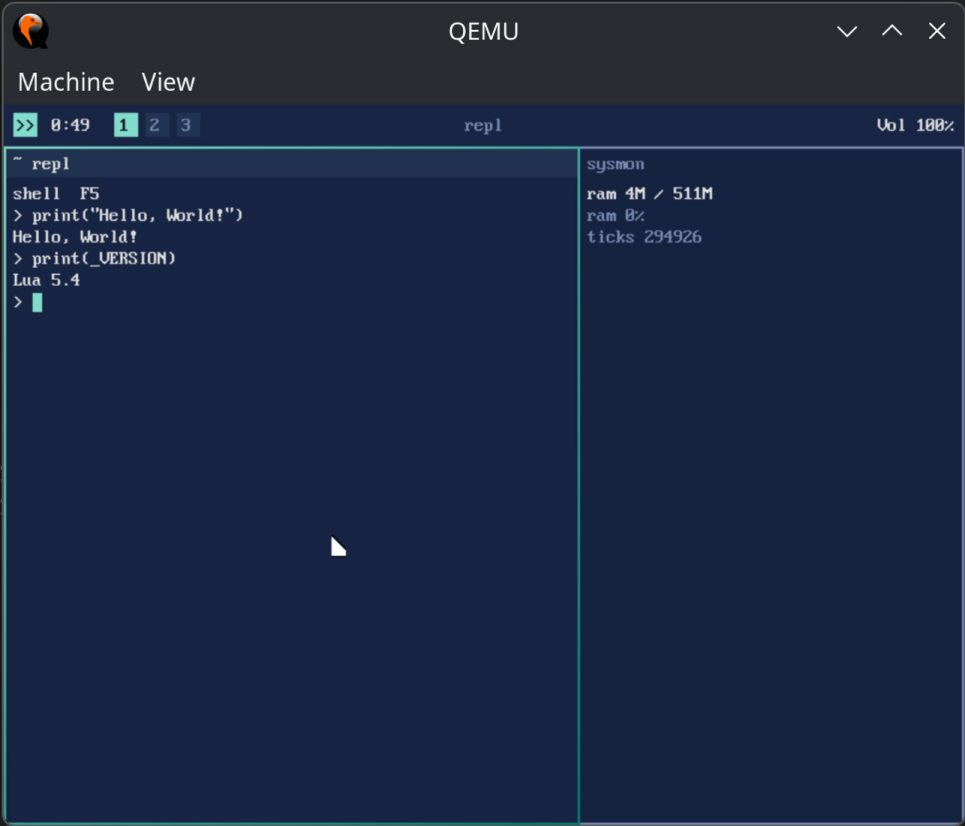
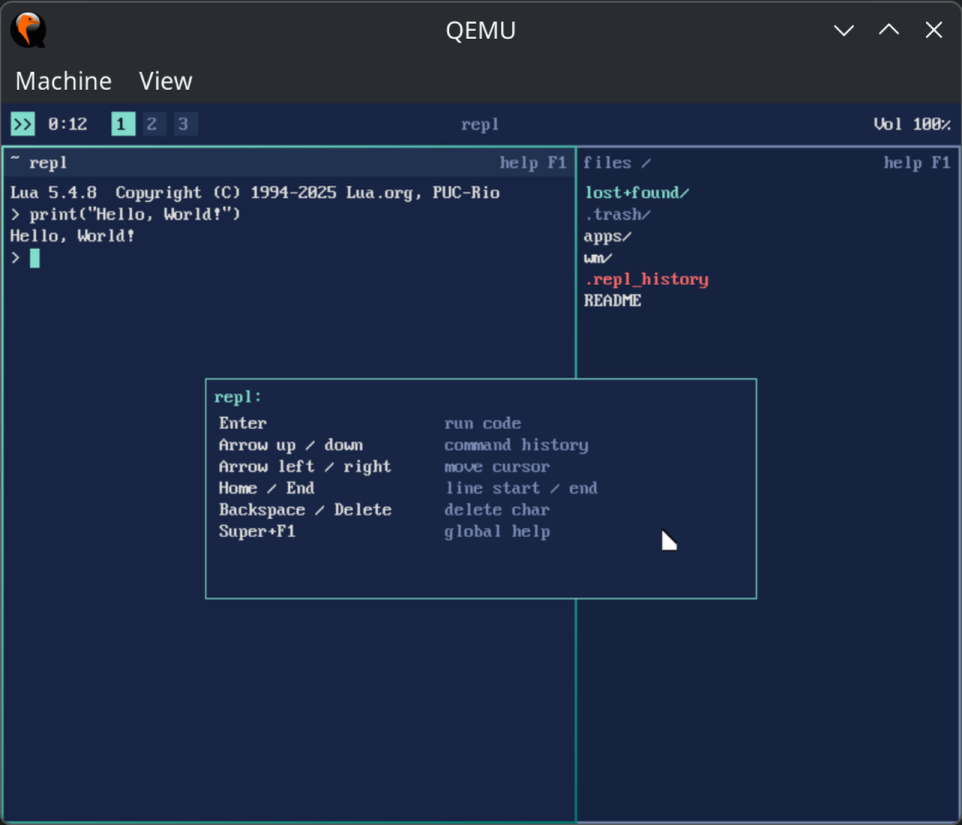
docs(README): simplify the quick start and user guide
Trim the architecture blockquote to the x86_64 target and the future-port scope-change note (the simplicity-over-isolation trade-offs live in spec/manifest.md). Move the shell how-to (editor, file browser, WM config) out of the README into the on-disk user guide /wm/README, which now covers the new F2 rename and Shift+F4. Refresh the preview screenshot and drop the duplicate website link from the Documentation section.

diff --git a/README.md b/README.md
@@ -14,11 +14,6 @@
 > Aster currently targets **x86_64** (QEMU `q35`) — the only implemented architecture for
 > now. A future port (e.g. ARM, RISC-V) is not excluded by design, but it is not a goal
 > today and would need its own scope change (see [`spec/non-goals.md`](spec/non-goals.md)).
-> The first implementation deliberately favors **simplicity over isolation**: the desktop,
-> scripting engine, and runtime share a single address space to minimize complexity and
-> maximize iteration speed. The public interfaces are designed as **stable abstractions**,
-> so individual subsystems can later be moved into isolated processes **without changing
-> application APIs**.
 
 > Full manifesto (including what Aster is NOT and accepted trade-offs):
 > [`spec/manifest.md`](spec/manifest.md).
@@ -33,8 +28,8 @@ Booting is the work, the log is the proof. The always-current boot log (with
 date, host, accelerator and commit metadata) lives in
 [`boot-log.md`](boot-log.md), regenerated by `tools/capture-boot.sh`; a
 pre-push hook and CI verify it never drifts from the code
-(`./tools/capture-boot.sh --check`). A sample is shown on the
-[website](https://xelvra.github.io/aster-os/).
+(`./tools/capture-boot.sh --check`). A sample is shown on
+[xelvra.github.io/aster-os](https://xelvra.github.io/aster-os/).
 
 ## Status
 
@@ -79,36 +74,10 @@ editor/file browser cannot open anything.
 zig build run -Ddisk=disk.img        # boot with the disk attached
 ```
 
-In the shell: **Super+T** opens the editor with a fresh empty buffer each time
-(arrows move the cursor/line, **Ctrl+S** saves — an unsaved buffer asks for a
-path and the file is created, unsaved edits survive Super+T;
-**Esc Esc** closes the editor as long as there are no unsaved changes);
-**Super+Z** opens the settings file `/wm/theme.lua`, saving it
-repaints the shell live; **Super+E** opens the file browser at the root
-(Up/Down select, **Enter** opens/edits a regular file,
-**Space** previews, **Delete** removes it, Escape or a click on the window
-title bar goes up a level; hidden
-dotfiles are shown dim, read-only files like the `/wm/.theme.bak` config backup
-in red). Deletion
-is permanent for now — `/.trash` exists as the future trash location
-(empty-trash is planned, not wired yet).
-**Super+Space** opens the launcher, whose `help` entry lists every shortcut;
-**F1** inside a window shows that app's own cheat sheet and **Super+F1**
-(anywhere) shows the global WM help; Alt+Tab cycles windows. The WM follows
-**Hyprland conventions strictly** — shortcuts, buttons and navigation behave
-the same as in Hyprland (`spec/desktop-ui.md` §5).
-
-The WM configuration lives in the `/wm/` directory on the disk:
-`/wm/theme.lua` (colors and geometry), `/wm/README` (user documentation),
-`/wm/api.lua` (Lua API reference) and `/wm/.theme.bak` (manual backup of the
-last Ctrl+S).
-`theme.lua` is full Lua code (not a data format), so you can tweak colors and
-geometry or rewrite window behavior — the shell applies it atomically on
-save. A broken config is reported in the REPL and the shell keeps the
-built-in defaults; `/wm/.theme.bak` holds the previous save as a read-only
-manual backup that is never loaded automatically.
-Deleting `/wm/theme.lua` and `/wm/.theme.bak` is safe — the shell falls back to
-the built-in defaults, so the environment never breaks.
+The shell's user guide (editor, file browser, WM config) lives on the disk in
+**`/wm/README`** — open it with Super+E in the OS, or read
+`tools/test-disk-root/wm/README` here. The launcher (**Super+Space**) lists
+every shortcut and **F1** shows per-window help.
 
 Verification tools (see [`spec/verification.md`](spec/verification.md)):
 
@@ -142,10 +111,6 @@ The kernel, KI, runtimes, and the full diagram live in
 
 ## Documentation
 
-- **Public website:** the English documentation site lives at
-  [xelvra.github.io/aster-os](https://xelvra.github.io/aster-os/) — a curated,
-  stable public layer over the internal spec (see the two-layer strategy in
-  [`spec/README.md`](spec/README.md)).
 - **Internal specification:** the complete architecture spec lives in
   [`spec/`](spec/README.md). Start with the [architecture overview](spec/architecture.md).
 
